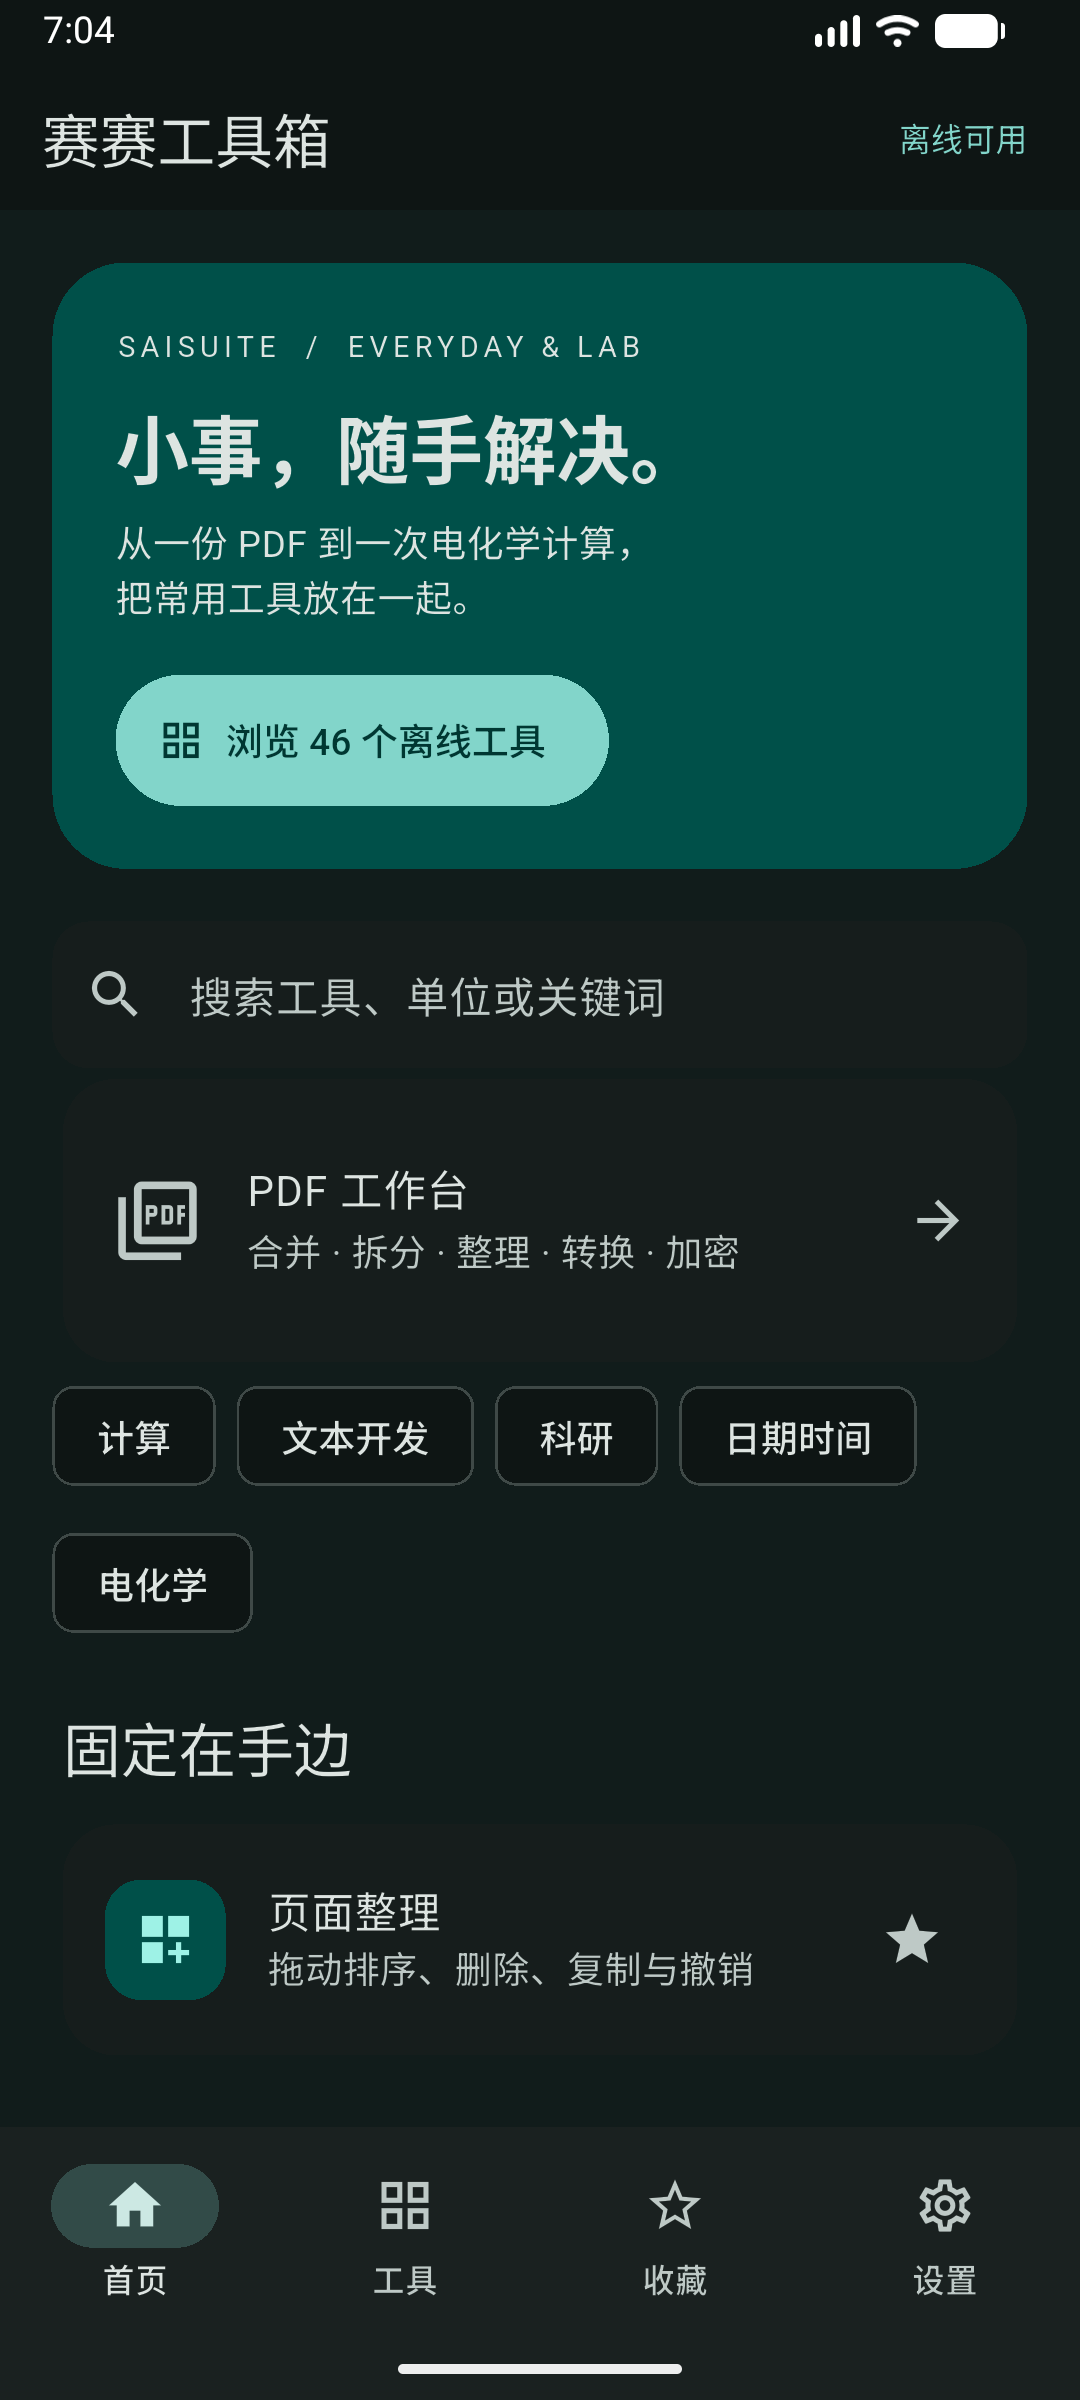
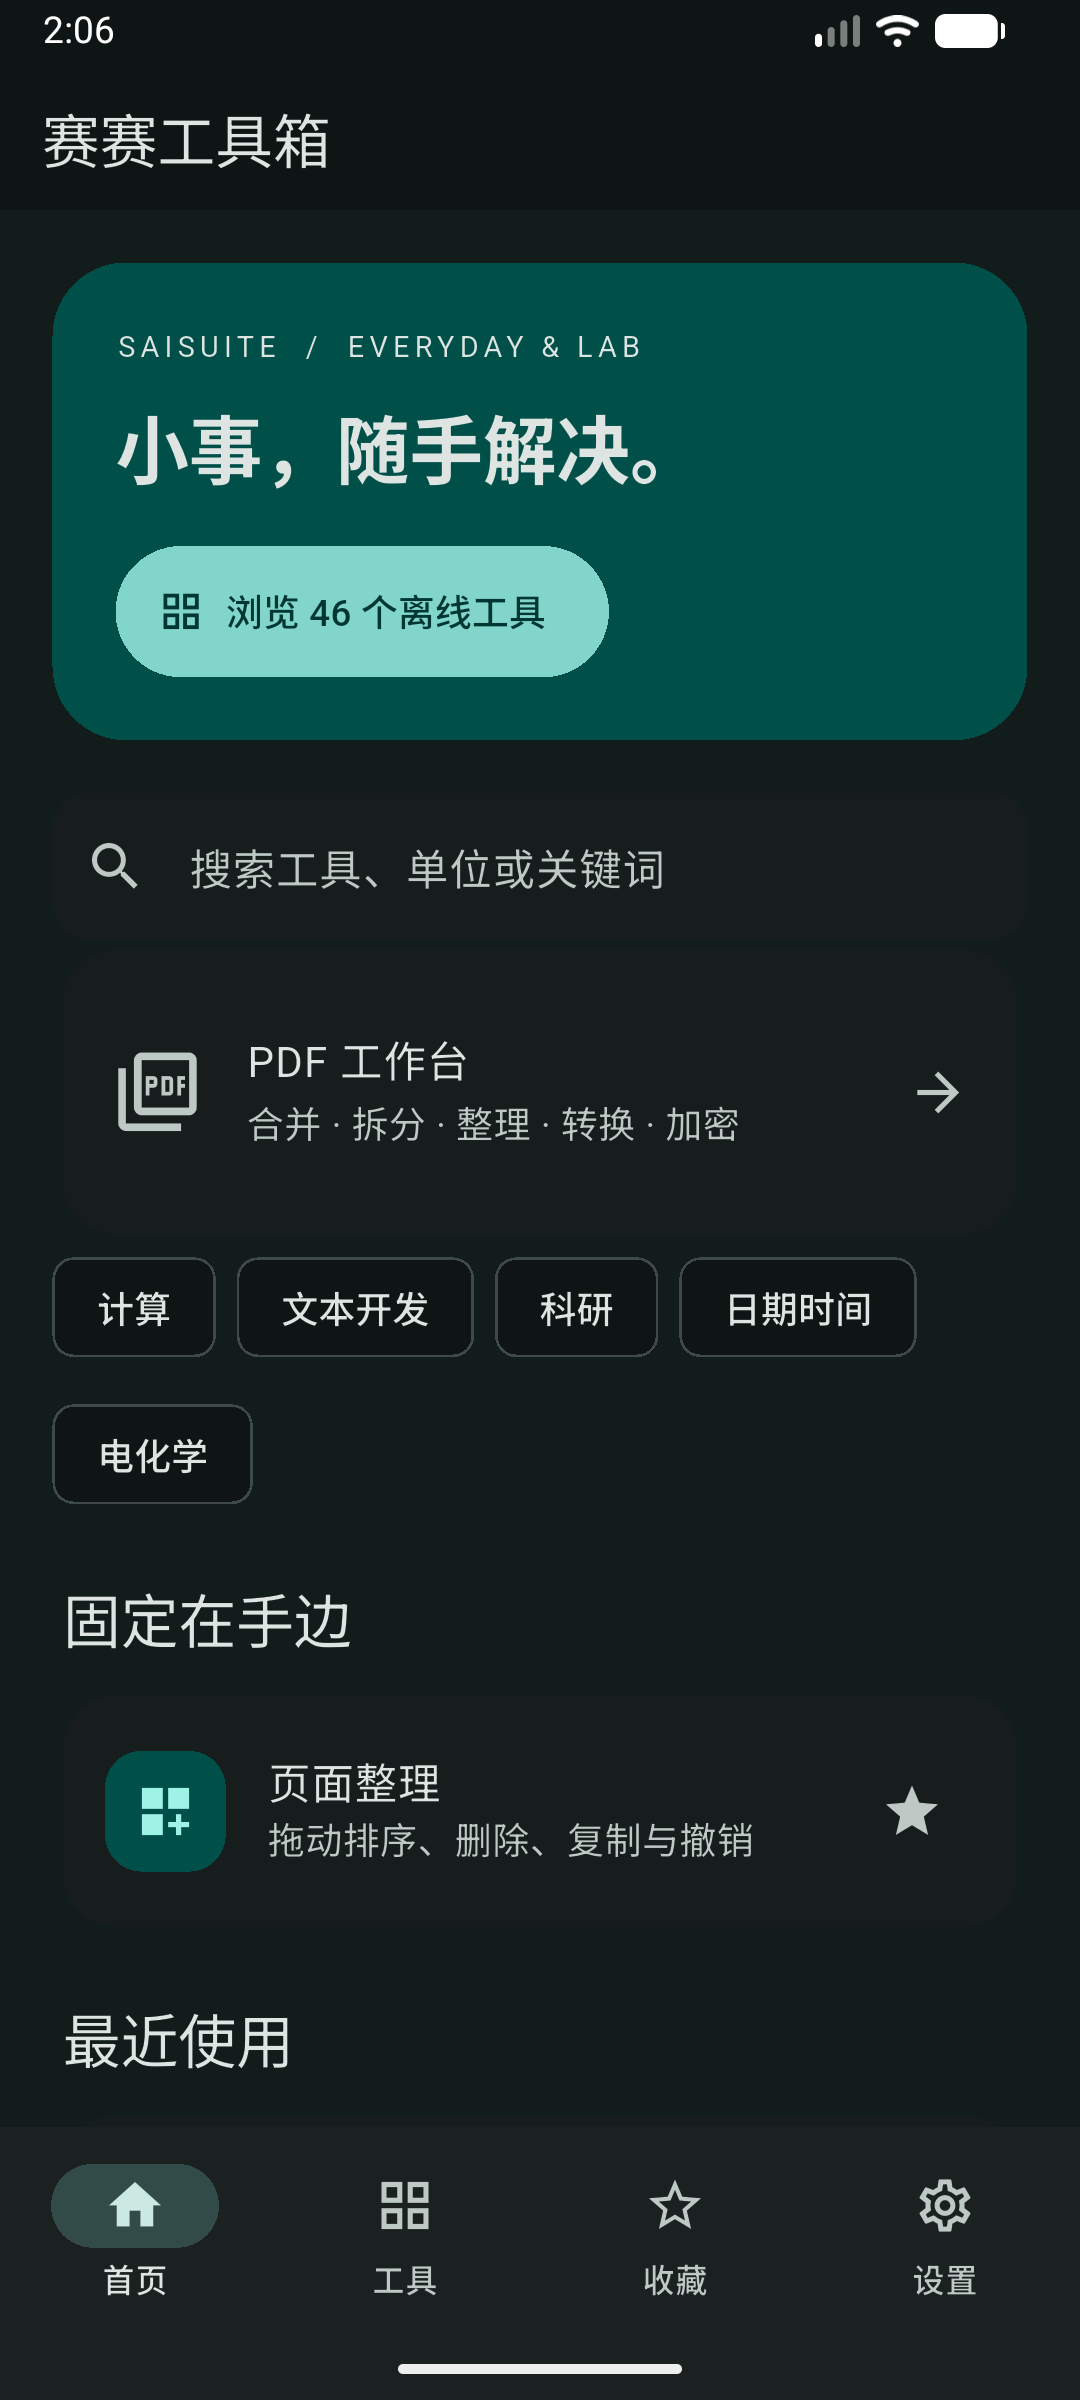
ui: simplify home page copy

diff --git a/lib/app/sai_app.dart b/lib/app/sai_app.dart
@@ -152,8 +152,6 @@ class _HomeShellState extends State<HomeShell> {
               style: Theme.of(context).textTheme.headlineMedium
                   ?.copyWith(fontWeight: FontWeight.bold),
             ),
-            const SizedBox(height: 8),
-            const Text('从一份 PDF 到一次电化学计算，\n把常用工具放在一起。'),
             const SizedBox(height: 20),
             FilledButton.icon(
               onPressed: () => setState(() {
@@ -389,21 +387,6 @@ class _HomeShellState extends State<HomeShell> {
     builder: (context, _) => Scaffold(
       appBar: AppBar(
         title: Text(['赛赛工具箱', '全部工具', '我的收藏', '设置'][tab]),
-        actions: [
-          if (tab == 0)
-            Padding(
-              padding: const EdgeInsets.only(right: 20),
-              child: Center(
-                child: Text(
-                  '离线可用',
-                  style: TextStyle(
-                    fontSize: 12,
-                    color: Theme.of(context).colorScheme.primary,
-                  ),
-                ),
-              ),
-            ),
-        ],
       ),
       body: Center(
         child: ConstrainedBox(

diff --git a/docs/ACCEPTANCE.md b/docs/ACCEPTANCE.md
@@ -88,7 +88,7 @@
 
 - 路径：`dist/SaiSuite-1.0.0-universal.apk`，66,880,506 字节，约 63.8 MiB。
 - 版本：`1.0.0`，versionCode `2`；包名 `io.github.wxia529.saisuite`。
[2 lines of base64/hex data omitted]
 - `apksigner verify --verbose`：通过，APK Signature Scheme v2，1 个签名者。
 - 实际执行 `adb install -r` 成功，启动正常，已有深色主题与收藏保留；设备包信息确认 minSdk 24、targetSdk 36。
 - 正式 manifest 没有 INTERNET 或广泛文件访问权限。分享与系统文件提供器由用户选择；应用本身不上传文件。
@@ -100,13 +100,17 @@
 
 | 文件 | 大小 MiB | versionCode | SHA-256 |
 |---|---:|---:|---|
[6 lines of base64/hex data omitted]
 
 - `aapt dump badging` 核对每包仅含对应 ABI；包名、版本名、compileSdk 36、targetSdk 36 和 minSdk 24 正确。
[1 lines of base64/hex data omitted]
 - 每包公共 DEX、资源、对应 ABI 的原生库与通用包逐文件 SHA-256 一致，没有更改工具功能。
 - 当前 x86_64 模拟器执行 `adb install -r` 成功，启动显示 46 个工具，原有深色主题与收藏保留，设备包信息确认 versionCode 4002 和 primaryCpuAbi x86_64。
-- ARM64 与 ARM32 包完成构建、内容与签名验证，尚未在对应实体设备上安装测试。本次没有改动业务代码，因此没有重复运行原有逻辑测试。
+- ARM64 与 ARM32 包完成构建、内容与签名验证，尚未在对应实体设备上安装测试。首页文案调整后，静态检查与 64 项既有测试再次通过。
 - 构建和检查日志保存在 `.buildlog/split-release.log`、各 ABI 的 signature 日志与 `split-inspection.json`。安装选择与版本升级规则见使用说明和构建说明。
+
+## 首页文案调整（2026-10-04）
+
+删除右上角「离线可用」及「从一份 PDF 到一次电化学计算，把常用工具放在一起。」说明，并移除相应间距。重新构建 Universal 和三个独立架构包，更新全部校验值；四包签名与 ABI 检查通过。x86_64 模拟器覆盖安装成功，浅色、深色首页均已查看并更新截图，原有收藏保留。
